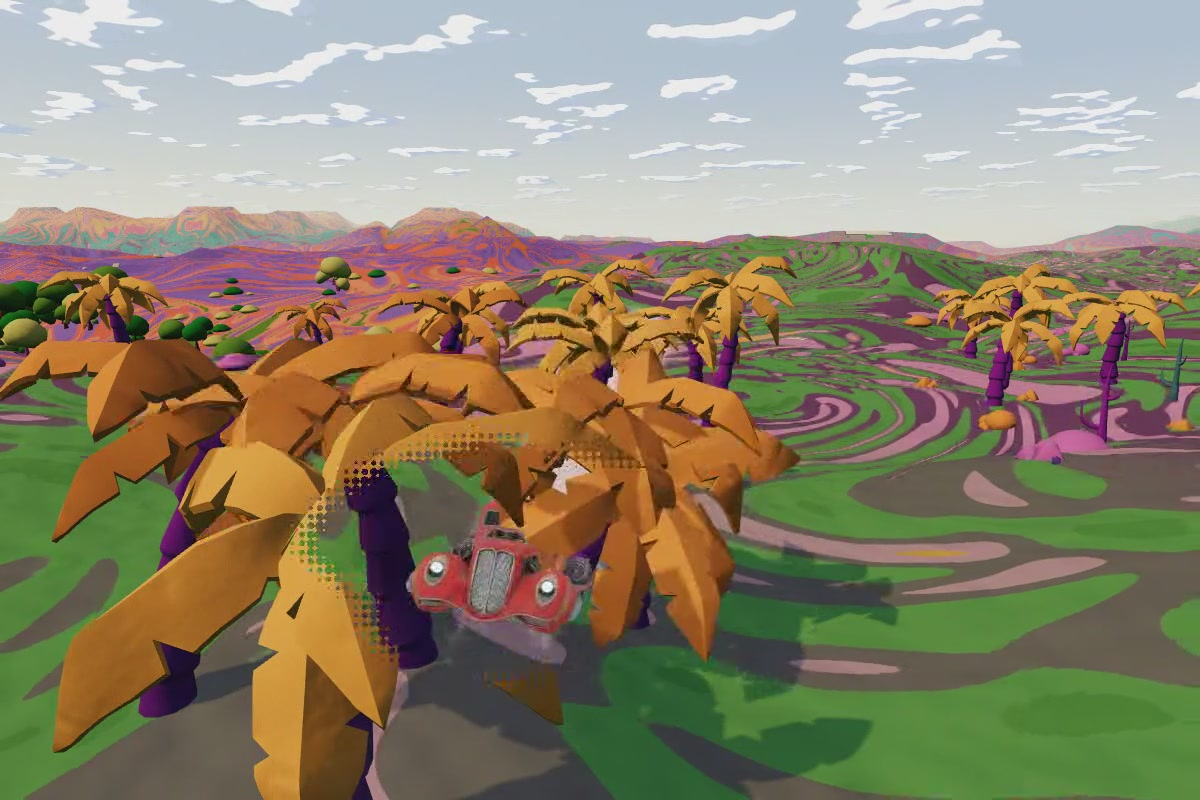
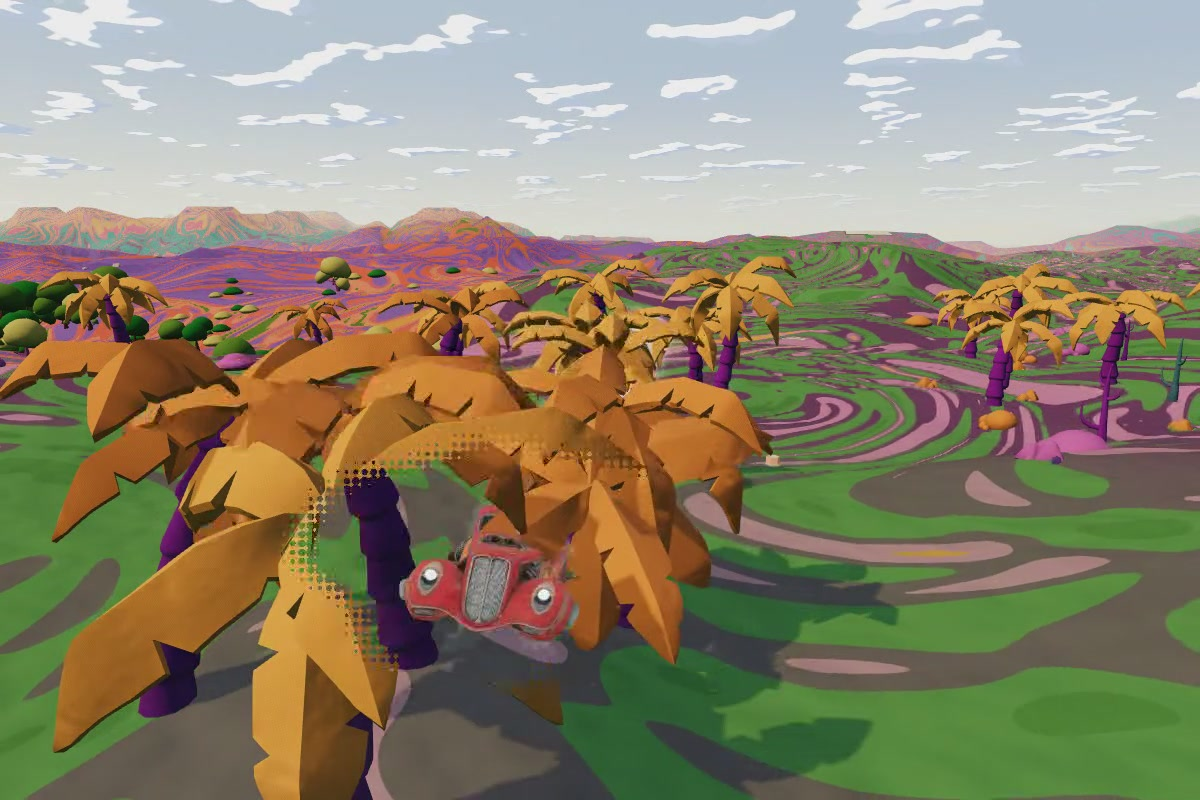
WS0: V-1244 Hartgummi bereit

diff --git a/tools/KFB-ToolBox/_inbox/KFB_HUB/30_DECISIONS/build_decisions.py b/tools/KFB-ToolBox/_inbox/KFB_HUB/30_DECISIONS/build_decisions.py
@@ -1219,6 +1219,7 @@ d('V-1240','2026-11-01','Look','PLAN','Georg 01.11.: Gemalte Planeten-PNGs auch 
 d('V-1241','2026-11-01','Spiel','BUILD','WS1 Merge-Runde 3 im Stamm @d6df214 (Q-049), zones=1 Standard, Stufe B Pflicht rot 0, Stufe C laeuft. Regel: nie src/private committen. Planeten einzeln nachladen, Go (N-071). Pause: MacBook und WS1 aus, Weiter gegen 22 Uhr nach Limit-Ruecksetzung; Mac mini ohne neue Jobs. deckGround-Go an WS-Design zum Neustart.','WS1, WS0','Q-049, N-070, N-071','Georg 01.11.')
 d('V-1242','2026-11-02','Prozess','PLAN','Runde 3 mit Stufe C abgeschlossen (Q-050), Testfahrt-Adresse als Hub-Frage mit place=r3. Limit zurueckgesetzt. Start Block 2: WS1 Hero-Shot-Merge, Planeten nachladen, Chronik, sammel=1; WS-Verteiler Hartgummi auf eigenem Branch mit kleinem Haken fuer WS1; WS-Design deckGround mit Planeten-Collage. N-072.','WS1, WS-Verteiler, WS-Design','Q-050, N-072','Georg 02.11.')
 d('V-1243','2026-11-02','Look','FAIL','deckGround R1 design/deck-ground-r1 @775a14a0 von WS0 nicht weitergegeben: Kaleidoskop-Scheibe mit Ringen, Polarspiegelung und Strahlenstern in der Mitte (gegen V-403, V-1053). Naechste Runde: H14-Vorlage als Massstab, unregelmaessige Collage-Fragmente ohne Mittelpunkt, Sprenkel-Raender, Feld folgt Zone und Gelaende, runde Motive nur im Anschnitt, Haenger verteilen. Decks klar verschieden, Atlas nicht doppelt geladen.','WS-Design','review/deck-ground-r1','Georg 02.11.')
+d('V-1244','2026-11-02','Spiel','BUILD','Hartgummi world/gummi-r1 @5711ce5f, gummi=1: Kontaktliste je Zelle, Biegen nach Tempo, Wagen drueckt sich durch, Figur gleitet, Felsen bremsen, Schatten biegt mit; zwei kleine Haken fuer WS1. Clips zeigen das Gefuehl kaum, darum Urteil in der Testfahrt nach Merge hinter Schalter. Mini-Messung bestellt. N-073.','WS1, WS-Verteiler','WFC_BEWEIS_R10_GUMMI','Georg 02.11.')
 d('V-427','2026-10-17','Prozess','TBD','Repo privat (Georg: Ziel privates Repo, PDF-Viewer und KFB-Seiten extern erreichbar). Inventur: GitHub Pages (georg-doc.github.io/kayfabizarro) spiegelt das ganze Repo öffentlich inkl. Mystery Series; Cloudflare Pages baut weiter, lädt 2D/3D/Songs aber per raw.githubusercontent → bricht; Registry erzeugt 51 034 raw-Links (Generator tools/asset_registry/build.py); PDFs schon auf pages.dev, Viewer nur 4 URLs umzustellen. Kauf-/eingeschränkte Assets auf main: Mystery Series 297 MB (inkl. 64 SOURCE-.blend), Patreon Snow Biome, ggf. KayKit ohne _FREE (~165 MB, Georg klärt), Audio-Packs ~337 MB, CraftPix ~63 MB, Pixel Frog, Mixamo. Vorschlag Reihenfolge: (1) PDF-Viewer auf pages.dev, (2) öffentlicher R2-Bucket aus Allowlist per Action, (3) Registry-Generator + Librarian/Personae/Audio auf öffentliche URLs, (4) Kauf-Assets nur in Spiel-/Tool-Builds, (5) Token für WS1-Staging + CI-Sperre gegen raw/jsDelivr/github.io, (6) Georg: Pages abschalten, Repo privat, Cloudflare-Zugriff prüfen. Aufwand ~3–5 Agent-Tage + ~1 h Georg.', 'WS0 (Plan) · WSA/WS1 (Umstellung) · Georg (Einstellungen)', 'Georg entscheidet Plan + welche Packs gekauft sind', 'replies/REPO_PRIVATE_MIGRATION_INVENTORY_R1.md')
 d('V-084','2026-10-10','Claude Design','FAIL','Town-Massemodell R1: Claude Design baut keine 3D-Geometrie mehr.', 'Steuerung', '-', 'docs/critic/claude-design/town-massemodell-r1-FAIL_2026-10-10/')
 # --- WARUM und WANN (Georg 11.10.: „why & when für decisions“) ---
@@ -2427,6 +2428,7 @@ WHY = {
  'V-1241':('Fertige Staende sind drin; Pause kostet nichts, naechste groessere Slices starten mit vollem Volumen.','01.11.'),
  'V-1242':('Volle Breite nach Limit-Ruecksetzung, Dateigrenzen getrennt, damit sich niemand in die Quere kommt.','02.11.'),
  'V-1243':('Sichtbare Regelverstoesse gehen nicht an Georg; Massstab ist sein abgenommenes Vorbild, nicht der Kritiker.','02.11.'),
+ 'V-1244':('Fahrgefuehl entscheidet sich beim Fahren, nicht am Video.','02.11.'),
  'V-427':('Gekaufte Assets liegen öffentlich (Repo + GitHub Pages); privat schalten ohne Umzug würde Viewer, Librarian, Audio, ToolBox und 3D-Bühnen brechen.','nach Georgs Entscheid'),
  'V-084':('Prozedurale Primitive können keine Claymation; Regress.','ab 10.10.'),
 }

diff --git a/tools/KFB-ToolBox/_inbox/KFB_HUB/30_DECISIONS/DECISIONS.md b/tools/KFB-ToolBox/_inbox/KFB_HUB/30_DECISIONS/DECISIONS.md
@@ -1209,6 +1209,7 @@ Stand 2026-11-02 · erzeugt aus `build_decisions.py` · Teil A handgepflegt (nur
 | V-1241 | 2026-11-01 | 01.11. | Spiel | **BUILD** | WS1 Merge-Runde 3 im Stamm @d6df214 (Q-049), zones=1 Standard, Stufe B Pflicht rot 0, Stufe C laeuft. Regel: nie src/private committen. Planeten einzeln nachladen, Go (N-071). Pause: MacBook und WS1 aus, Weiter gegen 22 Uhr nach Limit-Ruecksetzung; Mac mini ohne neue Jobs. deckGround-Go an WS-Design zum Neustart. | Fertige Staende sind drin; Pause kostet nichts, naechste groessere Slices starten mit vollem Volumen. | WS1, WS0 | Q-049, N-070, N-071 | Georg 01.11. |
 | V-1242 | 2026-11-02 | 02.11. | Prozess | **PLAN** | Runde 3 mit Stufe C abgeschlossen (Q-050), Testfahrt-Adresse als Hub-Frage mit place=r3. Limit zurueckgesetzt. Start Block 2: WS1 Hero-Shot-Merge, Planeten nachladen, Chronik, sammel=1; WS-Verteiler Hartgummi auf eigenem Branch mit kleinem Haken fuer WS1; WS-Design deckGround mit Planeten-Collage. N-072. | Volle Breite nach Limit-Ruecksetzung, Dateigrenzen getrennt, damit sich niemand in die Quere kommt. | WS1, WS-Verteiler, WS-Design | Q-050, N-072 | Georg 02.11. |
 | V-1243 | 2026-11-02 | 02.11. | Look | **FAIL** | deckGround R1 design/deck-ground-r1 @775a14a0 von WS0 nicht weitergegeben: Kaleidoskop-Scheibe mit Ringen, Polarspiegelung und Strahlenstern in der Mitte (gegen V-403, V-1053). Naechste Runde: H14-Vorlage als Massstab, unregelmaessige Collage-Fragmente ohne Mittelpunkt, Sprenkel-Raender, Feld folgt Zone und Gelaende, runde Motive nur im Anschnitt, Haenger verteilen. Decks klar verschieden, Atlas nicht doppelt geladen. | Sichtbare Regelverstoesse gehen nicht an Georg; Massstab ist sein abgenommenes Vorbild, nicht der Kritiker. | WS-Design | review/deck-ground-r1 | Georg 02.11. |
+| V-1244 | 2026-11-02 | 02.11. | Spiel | **BUILD** | Hartgummi world/gummi-r1 @5711ce5f, gummi=1: Kontaktliste je Zelle, Biegen nach Tempo, Wagen drueckt sich durch, Figur gleitet, Felsen bremsen, Schatten biegt mit; zwei kleine Haken fuer WS1. Clips zeigen das Gefuehl kaum, darum Urteil in der Testfahrt nach Merge hinter Schalter. Mini-Messung bestellt. N-073. | Fahrgefuehl entscheidet sich beim Fahren, nicht am Video. | WS1, WS-Verteiler | WFC_BEWEIS_R10_GUMMI | Georg 02.11. |
 | V-427 | 2026-10-17 | nach Georgs Entscheid | Prozess | **TBD** | Repo privat (Georg: Ziel privates Repo, PDF-Viewer und KFB-Seiten extern erreichbar). Inventur: GitHub Pages (georg-doc.github.io/kayfabizarro) spiegelt das ganze Repo öffentlich inkl. Mystery Series; Cloudflare Pages baut weiter, lädt 2D/3D/Songs aber per raw.githubusercontent → bricht; Registry erzeugt 51 034 raw-Links (Generator tools/asset_registry/build.py); PDFs schon auf pages.dev, Viewer nur 4 URLs umzustellen. Kauf-/eingeschränkte Assets auf main: Mystery Series 297 MB (inkl. 64 SOURCE-.blend), Patreon Snow Biome, ggf. KayKit ohne _FREE (~165 MB, Georg klärt), Audio-Packs ~337 MB, CraftPix ~63 MB, Pixel Frog, Mixamo. Vorschlag Reihenfolge: (1) PDF-Viewer auf pages.dev, (2) öffentlicher R2-Bucket aus Allowlist per Action, (3) Registry-Generator + Librarian/Personae/Audio auf öffentliche URLs, (4) Kauf-Assets nur in Spiel-/Tool-Builds, (5) Token für WS1-Staging + CI-Sperre gegen raw/jsDelivr/github.io, (6) Georg: Pages abschalten, Repo privat, Cloudflare-Zugriff prüfen. Aufwand ~3–5 Agent-Tage + ~1 h Georg. | Gekaufte Assets liegen öffentlich (Repo + GitHub Pages); privat schalten ohne Umzug würde Viewer, Librarian, Audio, ToolBox und 3D-Bühnen brechen. | WS0 (Plan) · WSA/WS1 (Umstellung) · Georg (Einstellungen) | Georg entscheidet Plan + welche Packs gekauft sind | replies/REPO_PRIVATE_MIGRATION_INVENTORY_R1.md |
 | V-084 | 2026-10-10 | ab 10.10. | Claude Design | **FAIL** | Town-Massemodell R1: Claude Design baut keine 3D-Geometrie mehr. | Prozedurale Primitive können keine Claymation; Regress. | Steuerung | - | docs/critic/claude-design/town-massemodell-r1-FAIL_2026-10-10/ |
 
